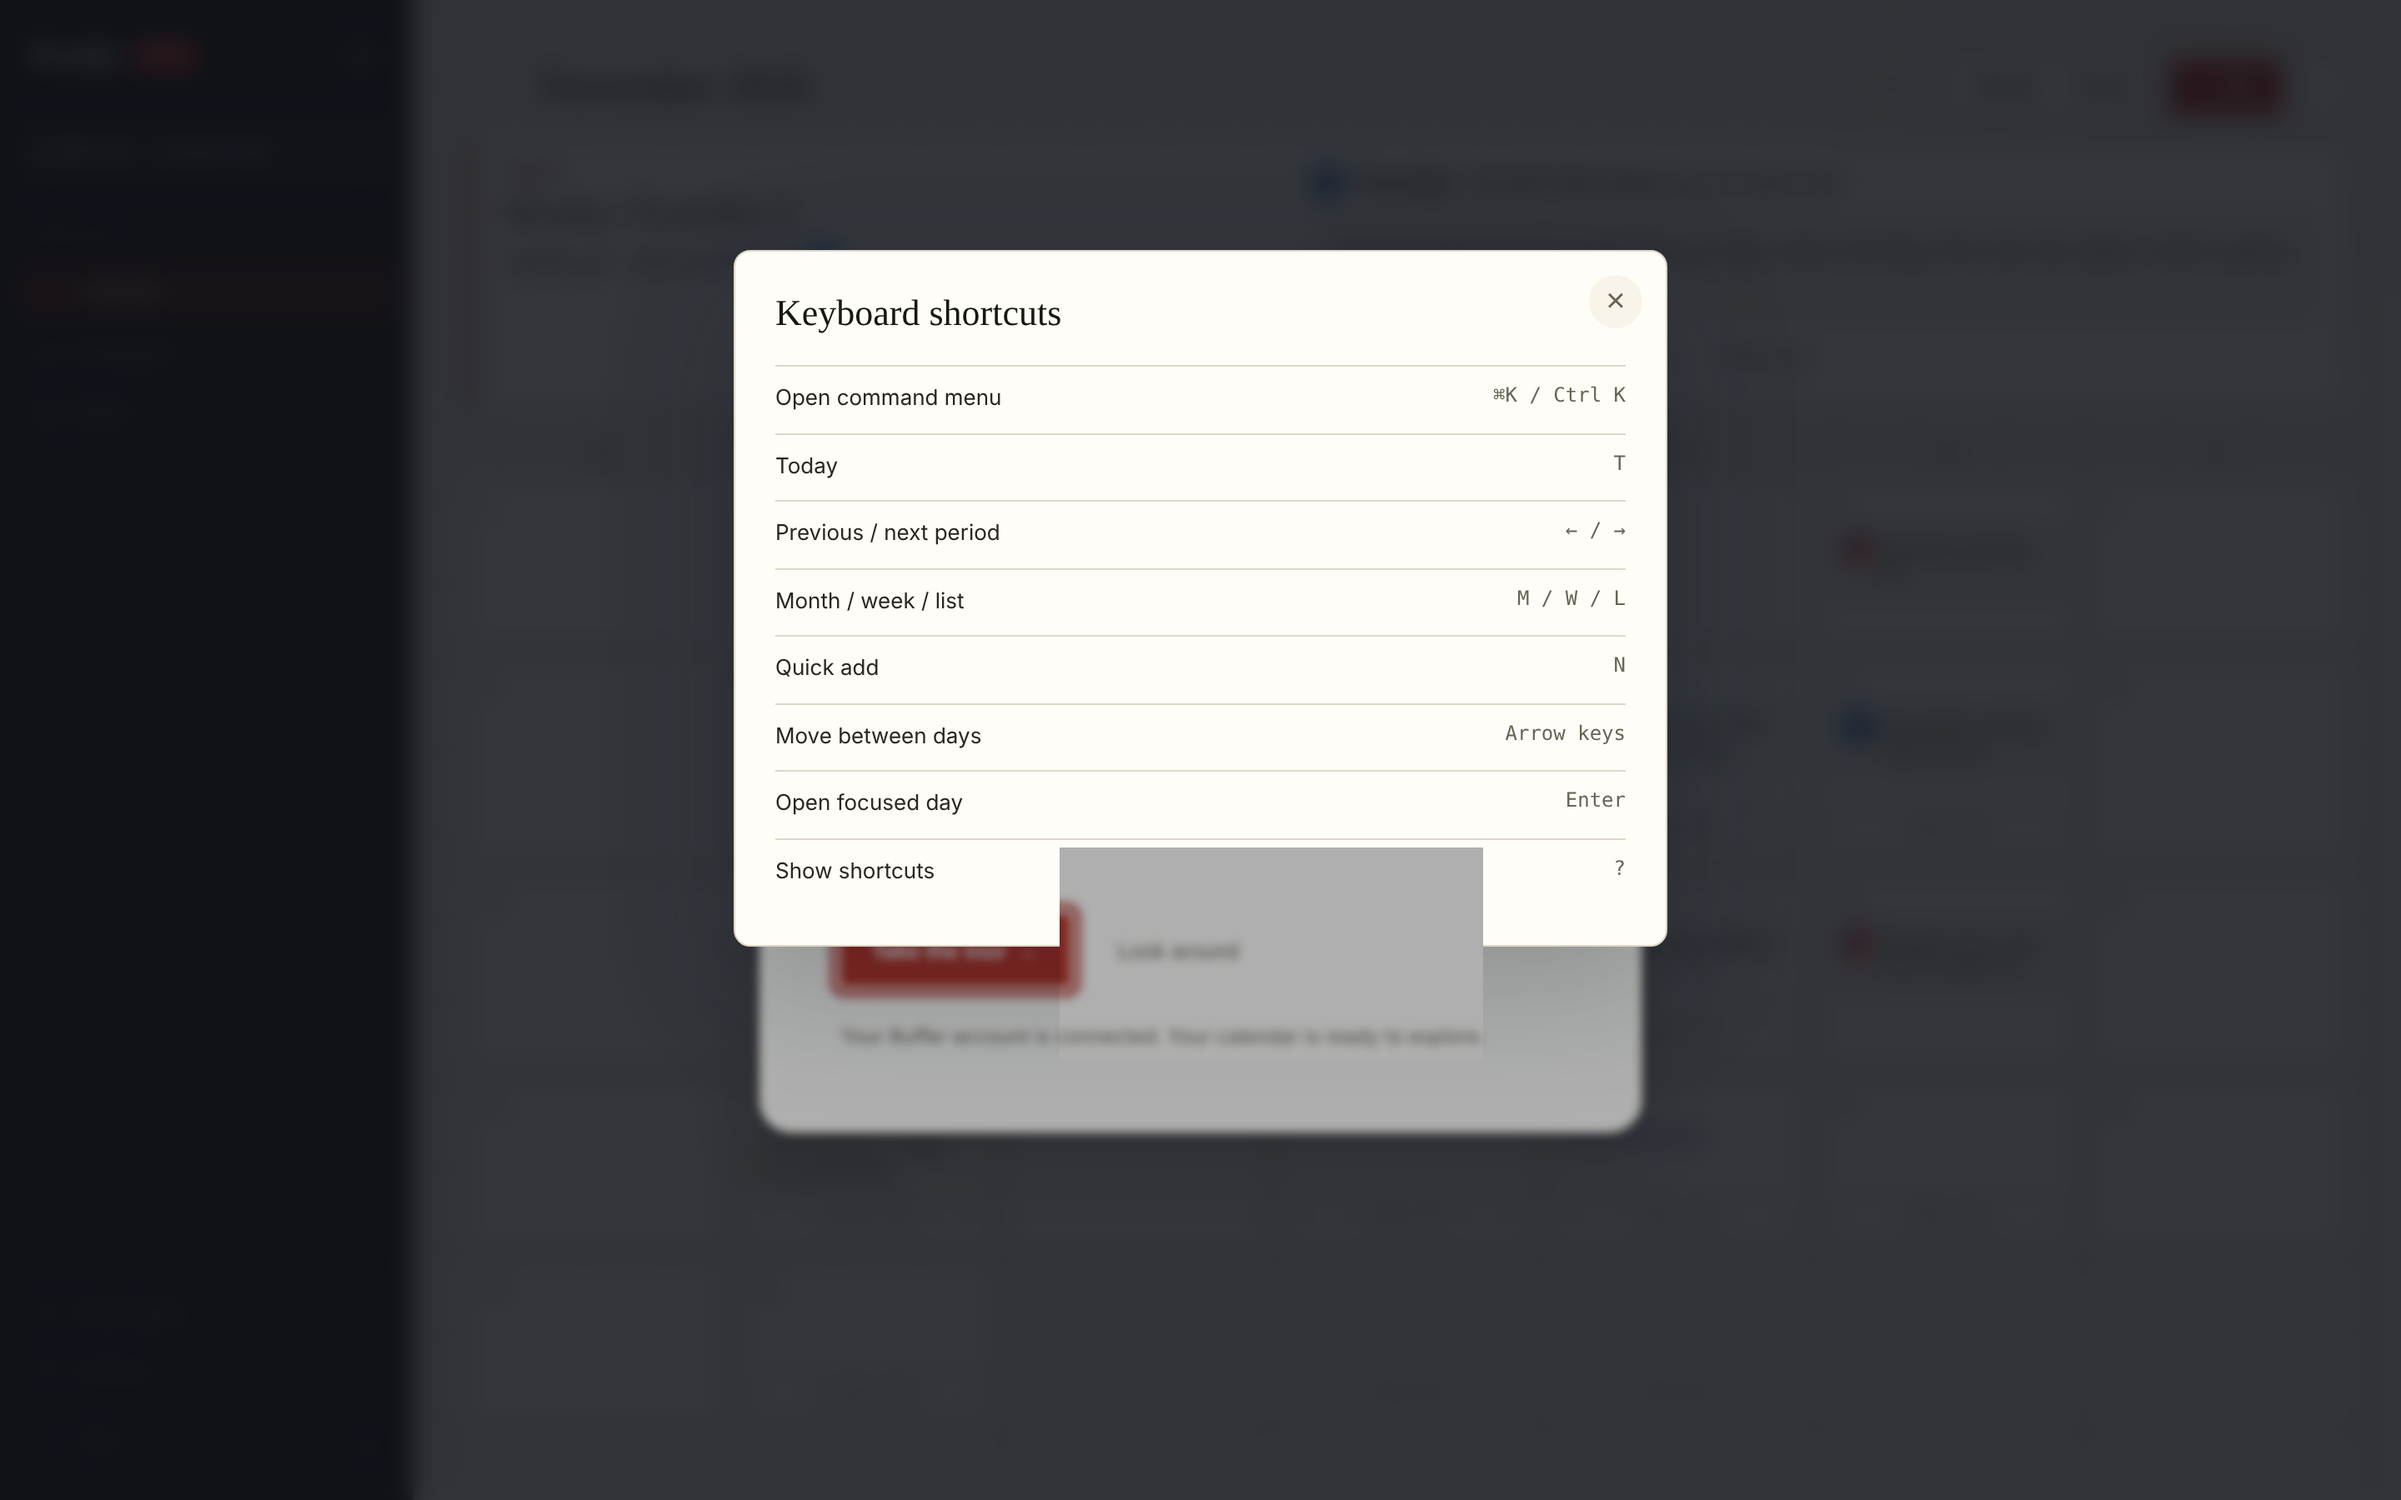
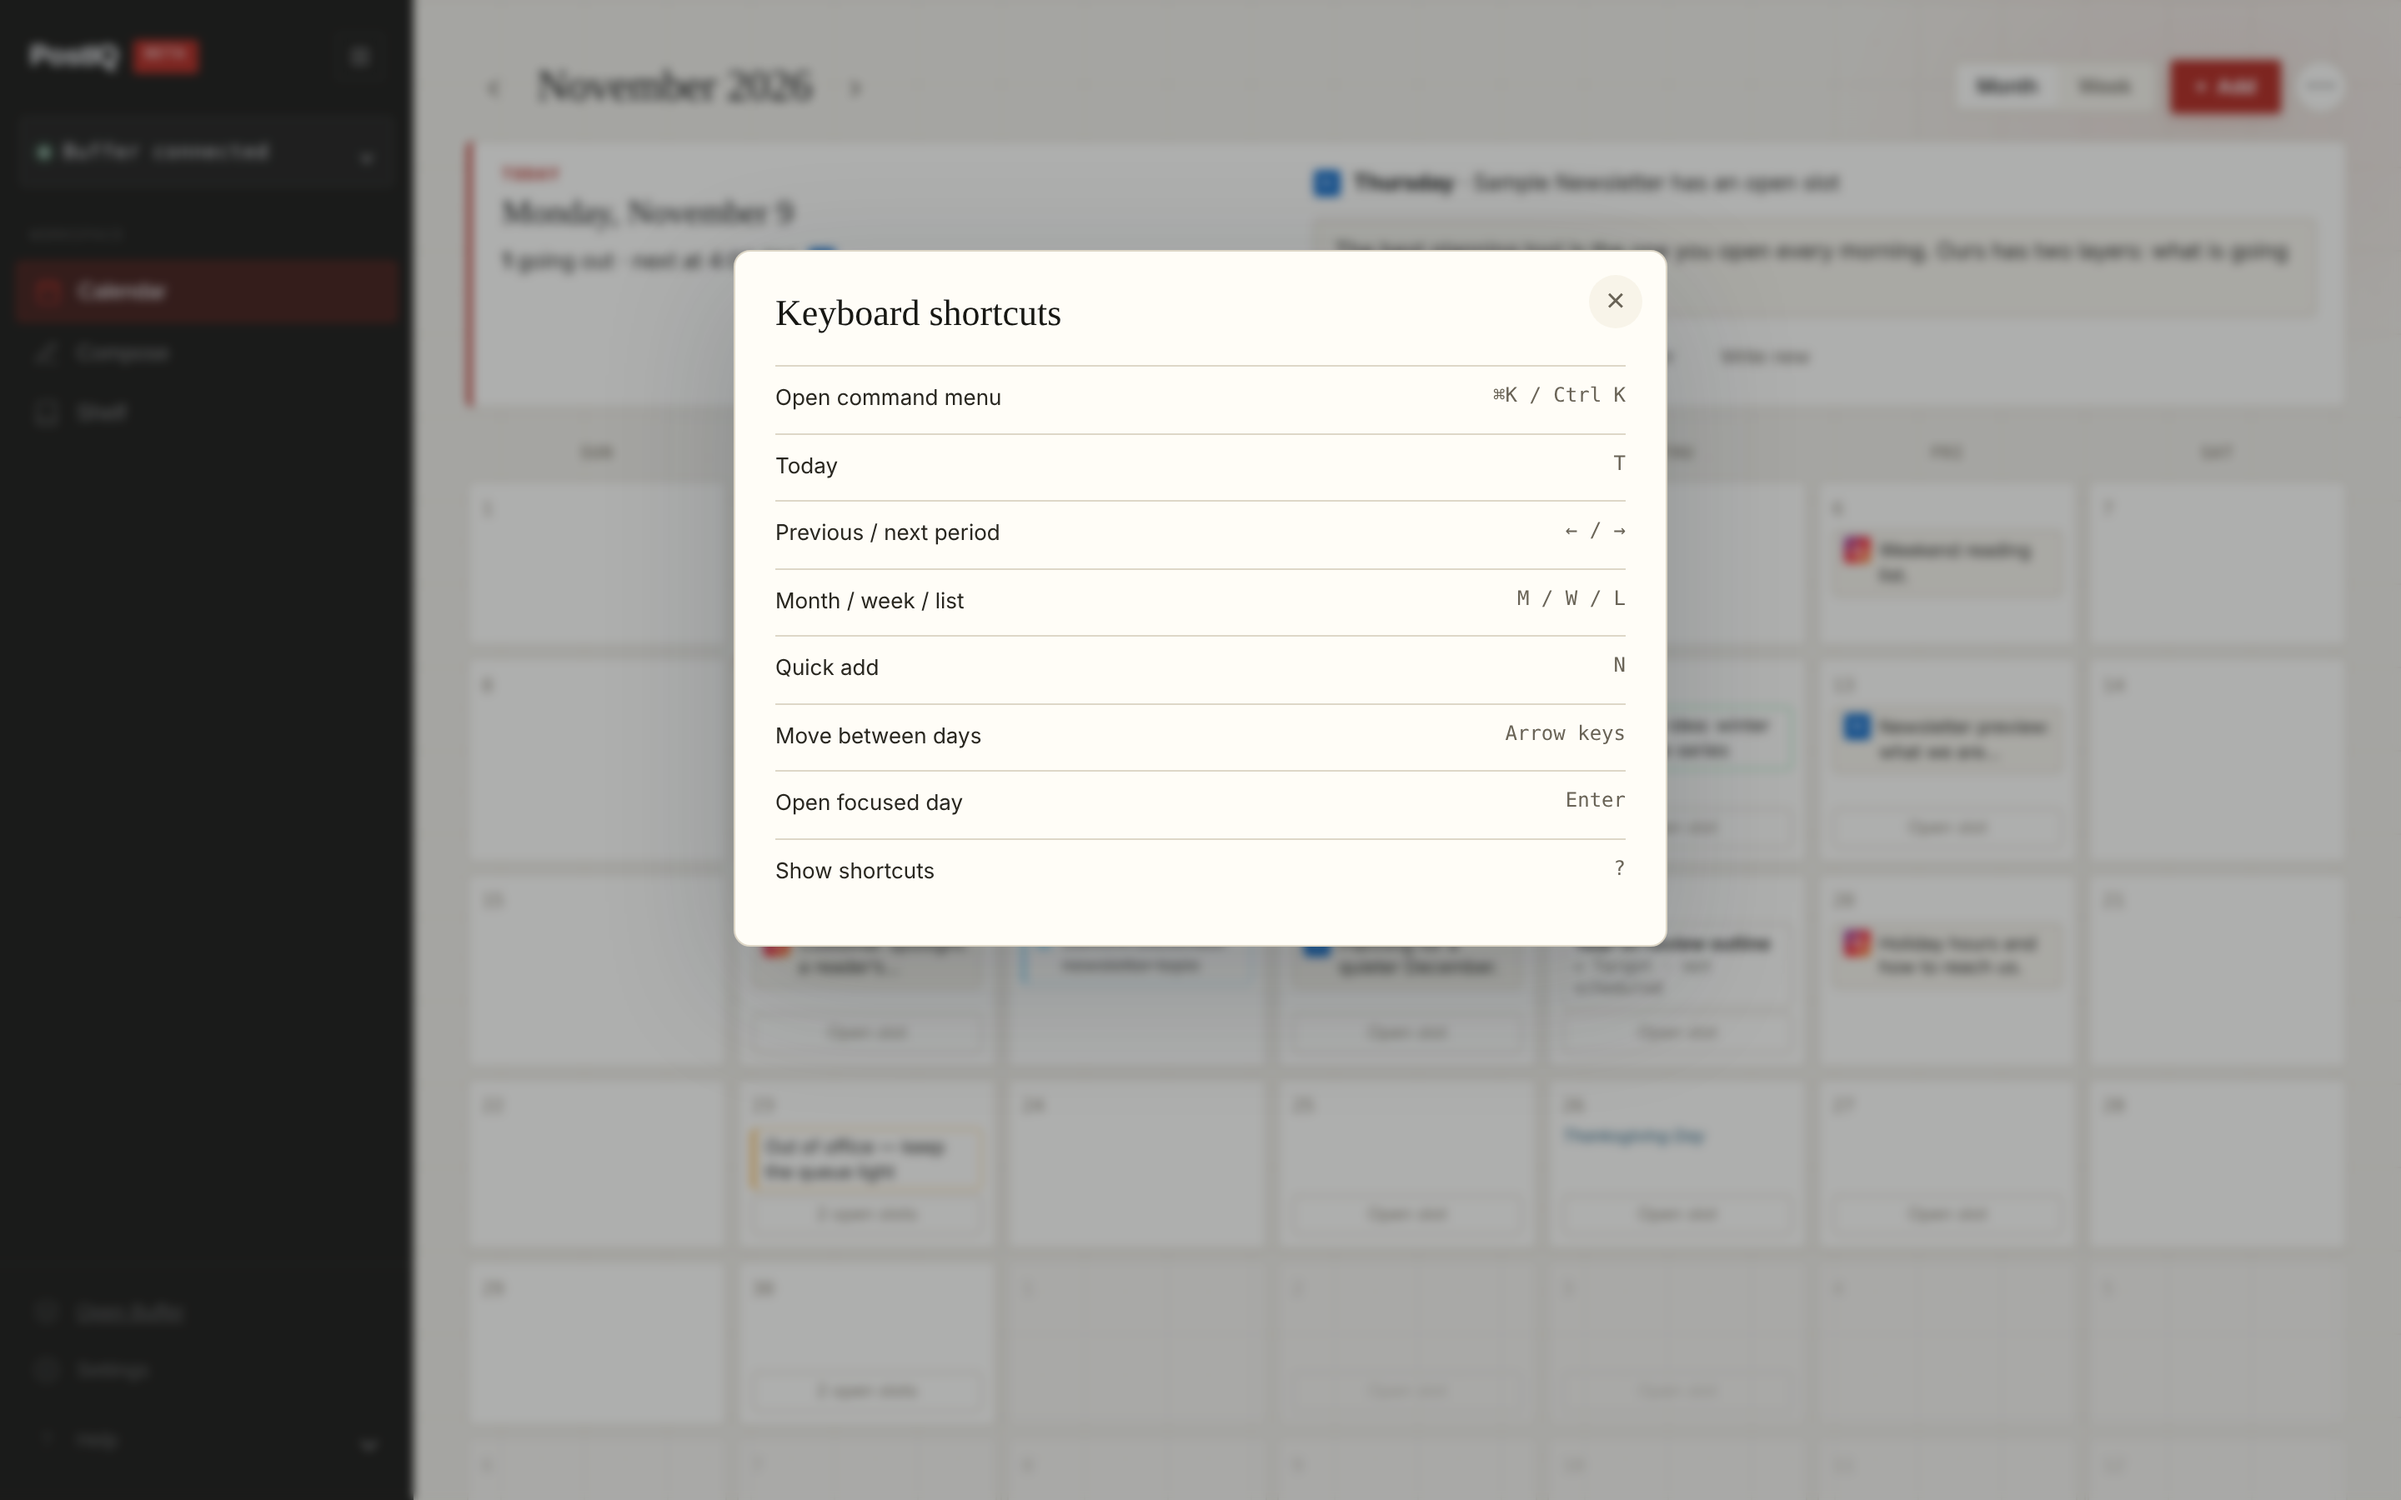
Screenshots: stop the welcome dialog from appearing in product shots
The capture seeded a Buffer connection but not the connected-tour flag, so
the welcome dialog was baked into the calendar mockup. Seed the flags the
tour checks for a returning, connected user.

Claude-Session: https://claude.ai/code/session_012foW17RqDYDXsgkesPZkXn

diff --git a/scripts/capture-landing-screenshots.js b/scripts/capture-landing-screenshots.js
@@ -75,6 +75,8 @@ function seed({ nowIso }) {
   set('postiq_calendar_notes_v2', notes);
   set('postiqPlanningSettings', settings);
   set('postiq_tour_seen', '1');
+  set('postiq_tour_connected_seen', '1');
+  set('postiq_app_visited', '1');
   set('postiq_getting_started_dismissed', '1');
   set('postiq.workspacePreferences', { planning: true, create: true, ideas: true });
   set('postiq_add_hint_seen', '1');
